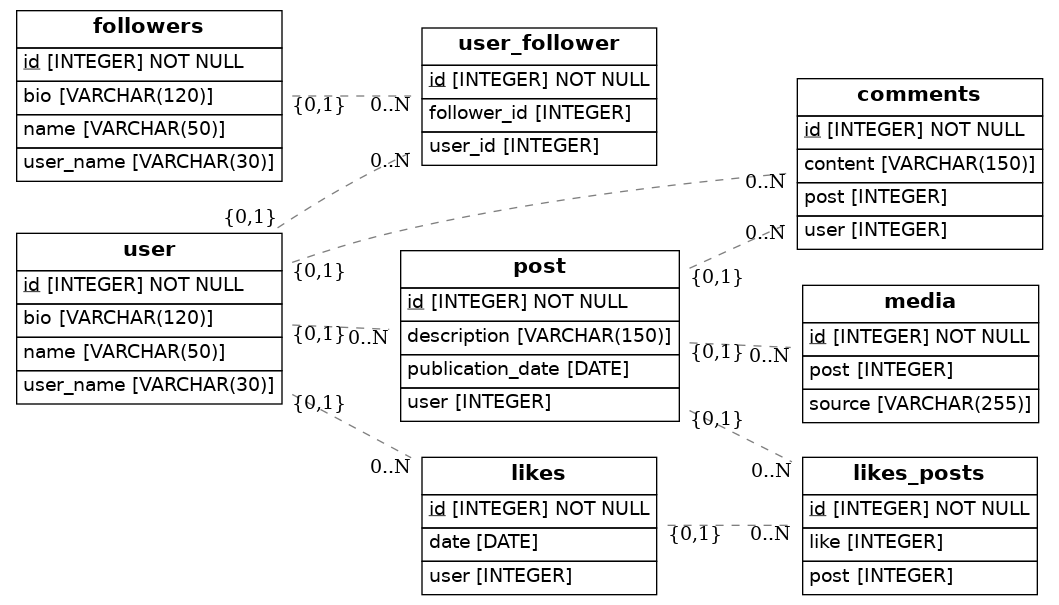
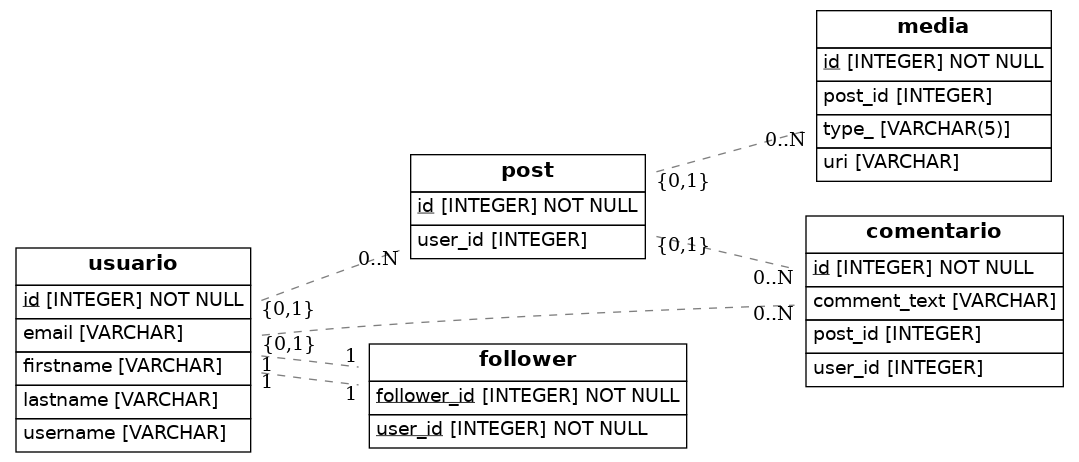
correcion

diff --git a/src/models.py b/src/models.py
@@ -1,82 +1,41 @@
-import os
-import sys
-from sqlalchemy import Column, ForeignKey, Integer, String, Date
-from sqlalchemy.orm import relationship, declarative_base
-from sqlalchemy import create_engine
+from sqlalchemy import Column, Integer, String, Enum, ForeignKey
+from sqlalchemy.orm import relationship
+from sqlalchemy.ext.declarative import declarative_base
 from eralchemy2 import render_er
 
 Base = declarative_base()
 
 class User(Base):
-    __tablename__ = 'user'
+    __tablename__ = 'usuario'
     id = Column(Integer, primary_key=True)
-    name = Column(String(50))
-    user_name = Column(String(30), unique=True)
-    bio = Column(String(120))
-    post = relationship('Post')
-    comment = relationship('Comments')
-    like = relationship('Likes')
-
-class Followers(Base):
-    __tablename__= 'followers'
-    id = Column(Integer, primary_key=True)
-    name = Column(String(50))
-    user_name = Column(String(30), unique=True)
-    bio = Column(String(120))
-
-class User_Follower(Base):
-    __tablename__ = 'user_follower'
-    id = Column(Integer, primary_key=True)
-    user_id = Column(Integer, ForeignKey('user.id'))
-    user_id_relationship = relationship(User)
-    follower_id = Column(Integer, ForeignKey('followers.id'))
-    follower_id_relationship = relationship(Followers)
+    username = Column(String)
+    firstname = Column(String)
+    lastname = Column(String)
+    email = Column(String)
 
 class Post(Base):
     __tablename__ = 'post'
     id = Column(Integer, primary_key=True)
-    description = Column(String(150))
-    publication_date = Column(Date)
-    user = Column(Integer, ForeignKey('user.id'))
-    media = relationship('Media')
-    comment = relationship('Comments')
+    user_id = Column(Integer, ForeignKey('usuario.id'))
+    comments = relationship('Comment')
+
+class Comment(Base):
+    __tablename__ = 'comentario'
+    id = Column(Integer, primary_key=True)
+    comment_text = Column(String)
+    user_id = Column(Integer, ForeignKey('usuario.id'))
+    post_id = Column(Integer, ForeignKey('post.id'))
 
 class Media(Base):
     __tablename__ = 'media'
     id = Column(Integer, primary_key=True)
-    source = Column(String(255))
-    post = Column(Integer, ForeignKey('post.id'))
+    type_ = Column(Enum('image', 'video'))
+    uri = Column(String)
+    post_id = Column(Integer, ForeignKey('post.id'))
 
-class Comments(Base):
-    __tablename__ = 'comments'
-    id = Column(Integer, primary_key=True)
-    content = Column(String(150))
-    post = Column(Integer, ForeignKey('post.id'))
-    user = Column(Integer, ForeignKey('user.id'))
+class Follower(Base):
+    __tablename__ = 'follower'
+    user_id = Column(Integer, ForeignKey('usuario.id'), primary_key=True)
+    follower_id = Column(Integer, ForeignKey('usuario.id'), primary_key=True)
 
-class Likes(Base):
-    __tablename__ = 'likes'
-    id = Column(Integer, primary_key=True)
-    date = Column(Date)
-    user = Column(Integer, ForeignKey('user.id'))
-
-class Likes_Posts(Base):
-    __tablename__ = 'likes_posts'
-    id = Column(Integer, primary_key=True)
-    like = Column(Integer, ForeignKey('likes.id'))
-    like_relationship = relationship(Likes) 
-    post = Column(Integer, ForeignKey('post.id'))
-    post_relationship = relationship(Post)
-
-
-
-    def to_dict(self):
-        return {}
-
-## Draw from SQLAlchemy base
-try:
-    result = render_er(Base, 'diagram.png')
-    print("Success! Check the diagram.png file")
-except Exception as e:
-    print("There was a problem genering the diagram")
-    raise e
+render_er(Base, 'diagram.png')
